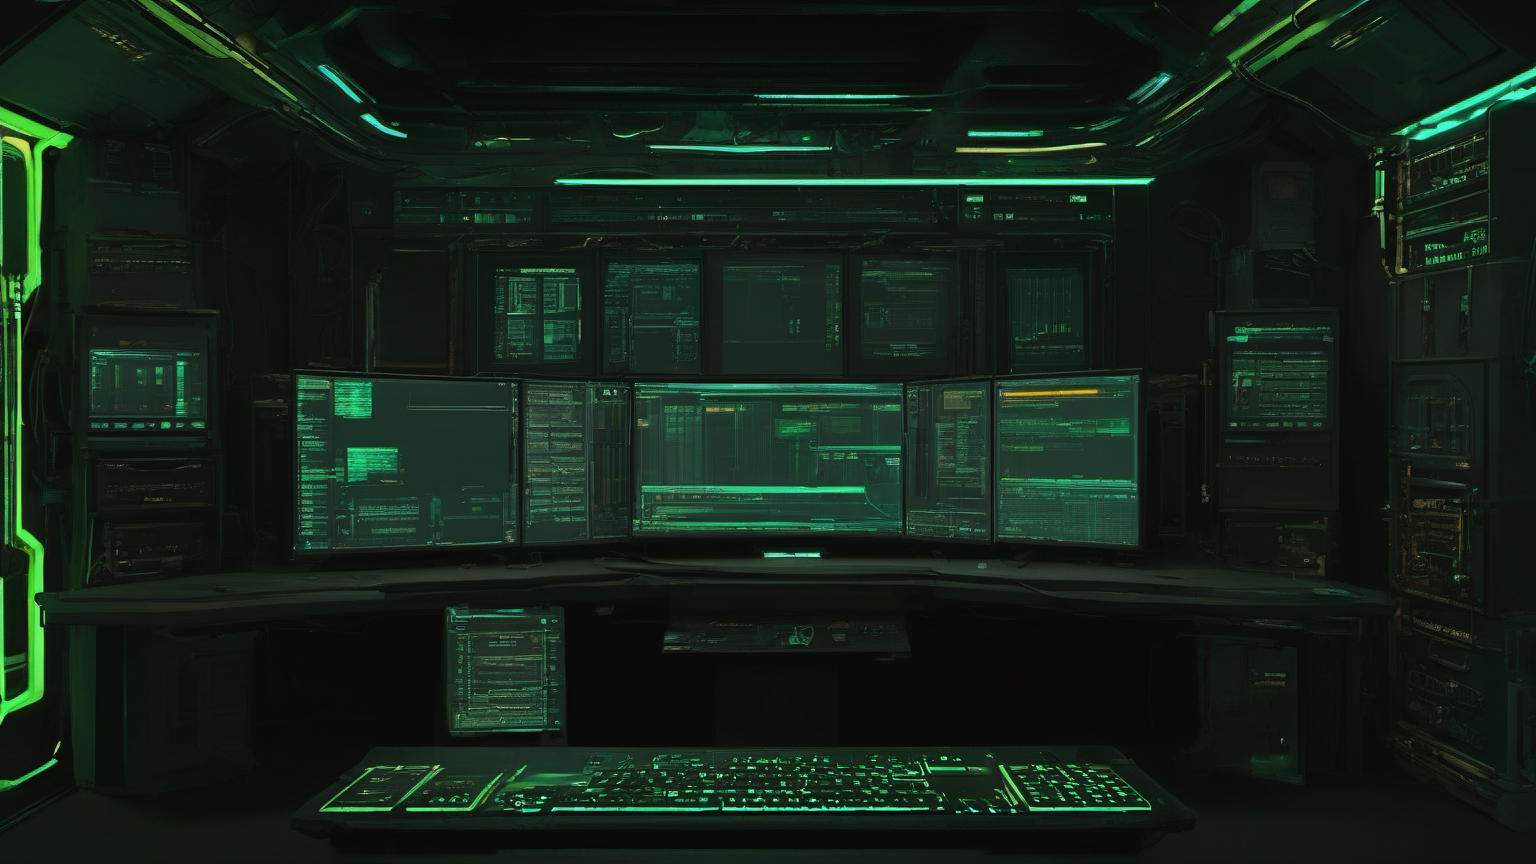
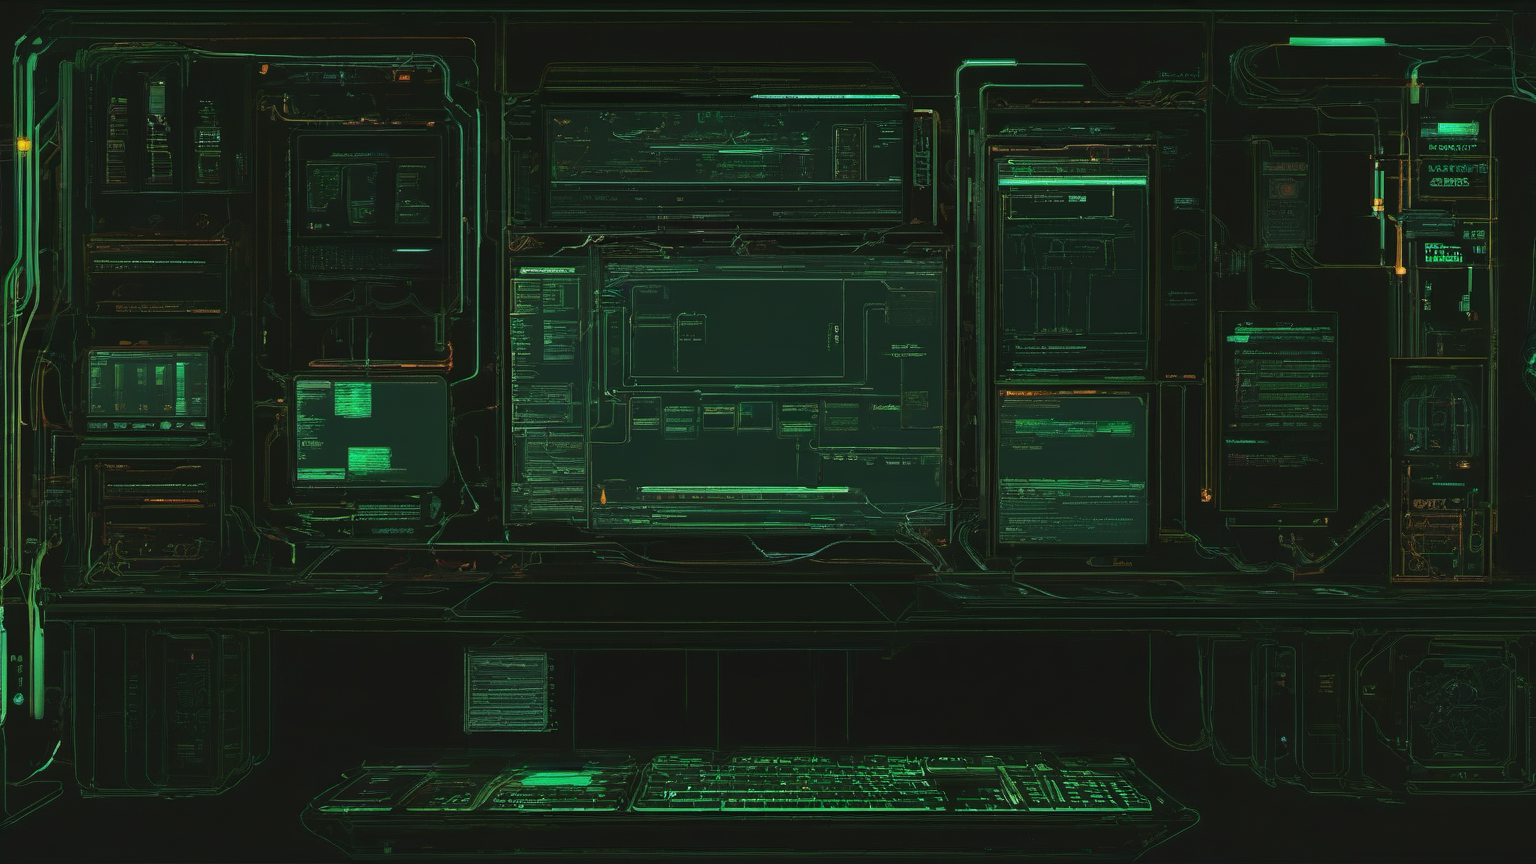
images?

diff --git a/src/content.config.ts b/src/content.config.ts
@@ -15,6 +15,16 @@ const blog = defineCollection({
 			updatedDate: z.coerce.date().optional(),
 			heroImage: z.optional(image()),
 			generatedHeroImage: z.string().optional(),
+			generatedImages: z
+				.array(
+					z.object({
+						id: z.string().regex(/^[a-z0-9-]+$/),
+						alt: z.string(),
+						caption: z.string().optional(),
+						brief: z.string(),
+					}),
+				)
+				.optional(),
 		}),
 });
 

diff --git a/scripts/comfyui-site-images.py b/scripts/comfyui-site-images.py
@@ -2,6 +2,7 @@
 from __future__ import annotations
 
 import argparse
+import hashlib
 import json
 import shutil
 import subprocess
@@ -11,6 +12,8 @@ import urllib.error
 import urllib.request
 from pathlib import Path
 from textwrap import shorten
+
+import yaml
 
 
 def parse_args() -> argparse.Namespace:
@@ -35,9 +38,120 @@ def parse_args() -> argparse.Namespace:
     return parser.parse_args()
 
 
-def load_manifest(path: Path) -> dict:
+def read_frontmatter(text: str, source: str) -> dict:
+    lines = text.splitlines()
+    if not lines or lines[0].strip() != "---":
+        return {}
+
+    for index in range(1, len(lines)):
+        if lines[index].strip() == "---":
+            frontmatter = yaml.safe_load("\n".join(lines[1:index])) or {}
+            if not isinstance(frontmatter, dict):
+                raise ValueError(f"frontmatter in {source} must be a mapping")
+            return frontmatter
+
+    raise ValueError(f"unterminated frontmatter in {source}")
+
+
+def blog_slug_from_path(relative_path: str) -> str:
+    if not relative_path.startswith("src/content/blog/"):
+        raise ValueError(f"unsupported blog content path: {relative_path}")
+    return relative_path[len("src/content/blog/") :].rsplit(".", 1)[0]
+
+
+def generated_article_output(slug: str, image_id: str) -> str:
+    return f"public/images/generated/posts/{slug}/{image_id}.jpg"
+
+
+def article_target_name(slug: str, image_id: str) -> str:
+    return f"article-{slug.replace('/', '--')}-{image_id}"
+
+
+def article_seed(slug: str, image_id: str) -> int:
+    return int(hashlib.sha1(f"{slug}:{image_id}".encode("utf-8")).hexdigest()[:8], 16)
+
+
+def load_blog_frontmatter(
+    repo_root: Path, relative_path: str, staged_changed_paths: set[str]
+) -> dict:
+    if relative_path in staged_changed_paths:
+        staged_content = staged_file_content(repo_root, relative_path)
+        if staged_content is not None:
+            return read_frontmatter(staged_content, f"staged:{relative_path}")
+
+    return read_frontmatter((repo_root / relative_path).read_text(encoding="utf-8"), relative_path)
+
+
+def expand_article_image_targets(
+    repo_root: Path, manifest: dict, staged_changed_paths: set[str]
+) -> dict:
+    article_defaults = manifest.get("article_images")
+    if not article_defaults:
+        return manifest
+
+    targets = dict(manifest.get("targets", {}))
+    blog_root = repo_root / "src" / "content" / "blog"
+
+    for path in sorted(blog_root.rglob("*")):
+        if path.suffix not in {".md", ".mdx"}:
+            continue
+
+        relative_path = path.relative_to(repo_root).as_posix()
+        frontmatter = load_blog_frontmatter(repo_root, relative_path, staged_changed_paths)
+        generated_images = frontmatter.get("generatedImages") or []
+        if not isinstance(generated_images, list):
+            raise ValueError(f"generatedImages in {relative_path} must be a list")
+
+        slug = blog_slug_from_path(relative_path)
+        title = str(frontmatter.get("title", slug)).strip()
+
+        for image in generated_images:
+            if not isinstance(image, dict):
+                raise ValueError(f"generatedImages entries in {relative_path} must be objects")
+
+            image_id = str(image.get("id", "")).strip()
+            brief = str(image.get("brief", "")).strip()
+            alt = str(image.get("alt", "")).strip()
+            caption = str(image.get("caption", "")).strip()
+            if not image_id or not brief or not alt:
+                raise ValueError(
+                    f"generated image entries in {relative_path} require id, alt, and brief"
+                )
+
+            art_direction_parts = [
+                article_defaults["art_direction_prefix"],
+                f"Post title: {title}.",
+                f"Supporting image brief: {brief}.",
+            ]
+            if caption:
+                art_direction_parts.append(f"Caption intent: {caption}.")
+
+            targets[article_target_name(slug, image_id)] = {
+                "watch": [relative_path],
+                "context": [relative_path],
+                "output": generated_article_output(slug, image_id),
+                "art_direction": " ".join(art_direction_parts),
+                "negative_prompt_seed": article_defaults["negative_prompt_seed"],
+                "width": article_defaults["width"],
+                "height": article_defaults["height"],
+                "steps": article_defaults["steps"],
+                "cfg": article_defaults["cfg"],
+                "sampler_name": article_defaults["sampler_name"],
+                "scheduler": article_defaults["scheduler"],
+                "seed": article_seed(slug, image_id),
+            }
+
+    return {
+        **manifest,
+        "targets": targets,
+    }
+
+
+def load_manifest(path: Path, repo_root: Path, staged_changed_paths: set[str]) -> dict:
     with path.open("r", encoding="utf-8") as handle:
-        return json.load(handle)
+        manifest = json.load(handle)
+
+    return expand_article_image_targets(repo_root, manifest, staged_changed_paths)
 
 
 def staged_paths(repo_root: Path) -> list[str]:
@@ -478,8 +592,8 @@ def main() -> int:
     args = parse_args()
     repo_root = Path(args.repo_root).resolve()
     manifest_path = Path(args.manifest).resolve()
-    manifest = load_manifest(manifest_path)
     changed_paths = staged_paths(repo_root)
+    manifest = load_manifest(manifest_path, repo_root, set(changed_paths))
 
     if args.targets_from_staged:
         targets = resolve_targets(manifest, changed_paths)

diff --git a/README.md b/README.md
@@ -94,6 +94,34 @@ Prompt generation behavior:
 - the generated prompt is blended with the repo’s shared terminal/tmux art direction so the
   imagery stays visually consistent across pages
 
+In-article generated images:
+
+- blog posts can declare generated article images in frontmatter with `generatedImages`
+- each entry should include:
+  - `id`: stable kebab-case identifier
+  - `alt`: alt text used in rendered HTML
+  - `caption`: optional visible caption
+  - `brief`: the post-specific visual intent that Ollama should blend with the global theme
+- place `[[generated-image:your-id]]` on its own line in the markdown body where the image should appear
+- generated article images render to `/images/generated/posts/<post-slug>/<image-id>.jpg`
+
+Example:
+
+```md
+---
+title: 'Launching the blog'
+generatedImages:
+  - id: first-night-rack
+    alt: 'AI-generated Linux publishing desk with compact rack gear.'
+    caption: 'First-night publishing workspace after the launch.'
+    brief: 'Quiet Linux writing desk, pane-like monitors, fresh deployment energy.'
+---
+
+Intro paragraph.
+
+[[generated-image:first-night-rack]]
+```
+
 Running on another machine:
 
 - if this machine is too light for image generation, run the same repo on a stronger Linux box

diff --git a/src/content/blog/welcome.md b/src/content/blog/welcome.md
@@ -3,9 +3,16 @@ title: 'Launching the blog'
 description: 'The first post on the new static blog for blog.brandoncamenisch.com.'
 pubDate: 'Mar 24 2026'
 generatedHeroImage: '/images/generated/launching-the-blog-terminal-banner.jpg'
+generatedImages:
+  - id: first-night-rack
+    alt: 'AI-generated first-night publishing workspace with a Linux desk, compact lab gear, and pane-like monitors.'
+    caption: 'A supporting insert image for the launch post: a first-night publishing desk with calm tmux-like monitor layouts and fresh deployment energy.'
+    brief: 'Create a supporting in-article image for the first post that feels like the blog has just been brought online: quiet Linux writing desk, compact rack gear, pane-like monitors, first-night deployment energy, and grounded optimism.'
 ---
 
 Welcome to the new blog.
+
+[[generated-image:first-night-rack]]
 
 This site is intentionally simple:
 
